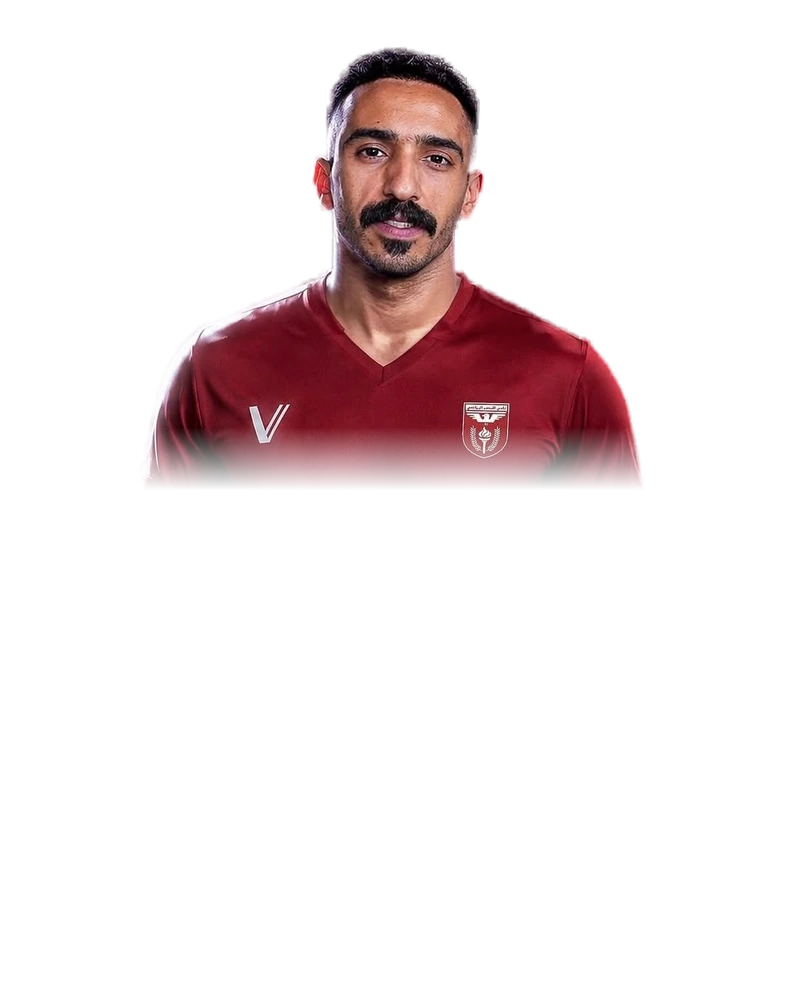
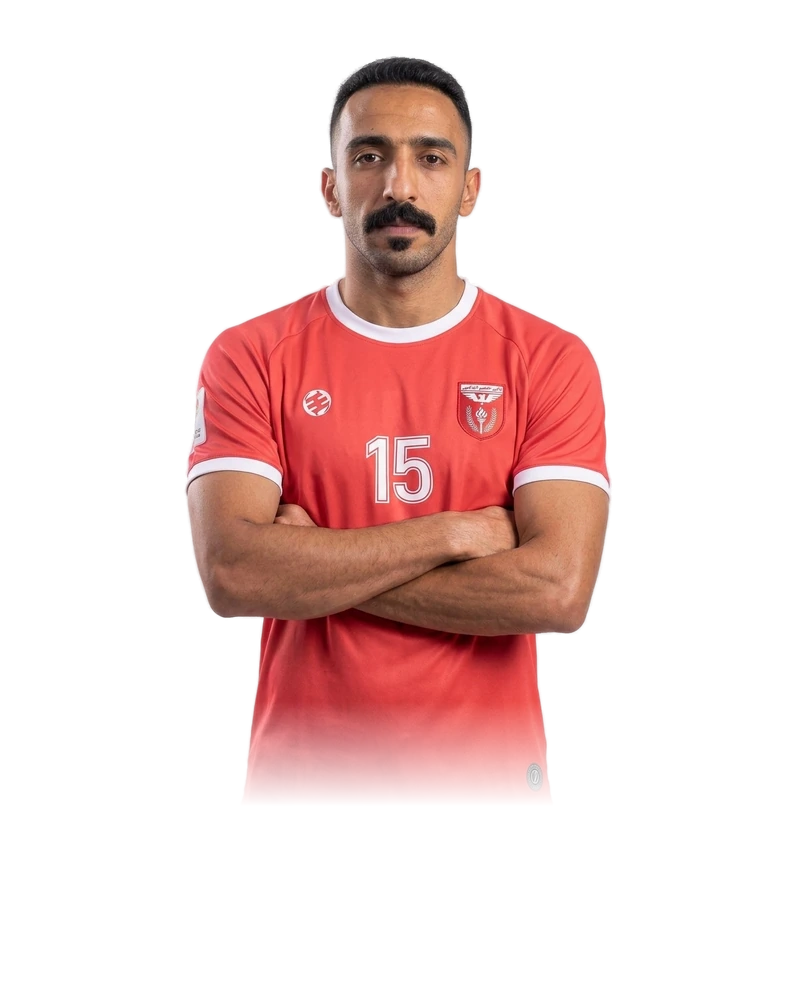
النصر: صورة خالد محمد 15 كاملة (بورتريه Gemini بوجهه الحقيقي وطقم النصر، متكتف مثل زملائه) بدل القصّة النصفية الصغيرة — صور ?v=18، fantasy 224، sw -114

Changed region(s): [[0.1875, 0.031, 0.8125, 0.806]]

diff --git a/fantasy/index.html b/fantasy/index.html
@@ -12,7 +12,7 @@
 <link rel="preconnect" href="https://fonts.googleapis.com">
 <link rel="preconnect" href="https://fonts.gstatic.com" crossorigin>
 <link href="https://fonts.googleapis.com/css2?family=Vazirmatn:wght@300;400;500;600;700;800&display=swap" rel="stylesheet">
-<link rel="stylesheet" href="css/style.css?v=223">
+<link rel="stylesheet" href="css/style.css?v=224">
 <script src="https://cdnjs.cloudflare.com/ajax/libs/firebase/10.12.2/firebase-app-compat.min.js"></script>
 <script src="https://cdnjs.cloudflare.com/ajax/libs/firebase/10.12.2/firebase-auth-compat.min.js"></script>
 <script src="https://cdnjs.cloudflare.com/ajax/libs/firebase/10.12.2/firebase-firestore-compat.min.js"></script>
@@ -20,13 +20,13 @@
 </head>
 <body>
   <div id="splash">
-    <div class="splash-card"><img class="splash-logo" src="assets/logo-light.png?v=223" alt="Kuwait Fantasy League"></div>
+    <div class="splash-card"><img class="splash-logo" src="assets/logo-light.png?v=224" alt="Kuwait Fantasy League"></div>
   </div>
 
   <header id="topbar" style="display:none">
     <div id="brand" onclick="APP.go('dashboard')">
-      <img class="brand-lockup lk-dark" src="assets/logo-dark.png?v=223" alt="Kuwait Fantasy League">
-      <img class="brand-lockup lk-light" src="assets/logo-light.png?v=223" alt="Kuwait Fantasy League">
+      <img class="brand-lockup lk-dark" src="assets/logo-dark.png?v=224" alt="Kuwait Fantasy League">
+      <img class="brand-lockup lk-light" src="assets/logo-light.png?v=224" alt="Kuwait Fantasy League">
     </div>
     <a id="toSite" href="/" title="العودة للموقع">
       <svg viewBox="0 0 24 24" width="16" height="16" fill="none" stroke="currentColor" stroke-width="2.2" stroke-linecap="round" stroke-linejoin="round" aria-hidden="true"><path d="M9 6l6 6-6 6"/></svg>
@@ -41,28 +41,28 @@
   <nav id="bottomnav"></nav>
   <div id="toasts"></div>
 
-  <script src="js/cloud.js?v=223"></script>
-  <script src="js/data.js?v=223"></script>
-  <script src="js/engine.js?v=223"></script>
-  <script src="js/ui.js?v=223"></script>
-  <script src="js/photos.js?v=223"></script>
-  <script src="js/kits.js?v=223"></script>
-  <script src="js/kits-number.js?v=223"></script>
-  <script src="js/moderation.js?v=223"></script>
-  <script src="js/views.js?v=223"></script>
-  <script src="js/picker.js?v=223"></script>
-  <script src="js/extras.js?v=223"></script>
-  <script src="js/push.js?v=223"></script>
-  <script src="js/adminauth.js?v=223"></script>
-  <script src="js/admin.js?v=223"></script>
-  <script src="js/guide.js?v=223"></script>
-  <script src="js/live-gw.js?v=223"></script>
-  <script src="js/points.js?v=223"></script>
-  <script src="js/mfsync.js?v=223"></script>
-  <script src="js/roster-sync.js?v=223"></script>
-  <script src="js/app.js?v=223"></script>
-  <script src="js/i18n.js?v=223"></script>
-  <script src="js/i18n-more.js?v=223"></script>
-  <script src="js/gate.js?v=223"></script>
+  <script src="js/cloud.js?v=224"></script>
+  <script src="js/data.js?v=224"></script>
+  <script src="js/engine.js?v=224"></script>
+  <script src="js/ui.js?v=224"></script>
+  <script src="js/photos.js?v=224"></script>
+  <script src="js/kits.js?v=224"></script>
+  <script src="js/kits-number.js?v=224"></script>
+  <script src="js/moderation.js?v=224"></script>
+  <script src="js/views.js?v=224"></script>
+  <script src="js/picker.js?v=224"></script>
+  <script src="js/extras.js?v=224"></script>
+  <script src="js/push.js?v=224"></script>
+  <script src="js/adminauth.js?v=224"></script>
+  <script src="js/admin.js?v=224"></script>
+  <script src="js/guide.js?v=224"></script>
+  <script src="js/live-gw.js?v=224"></script>
+  <script src="js/points.js?v=224"></script>
+  <script src="js/mfsync.js?v=224"></script>
+  <script src="js/roster-sync.js?v=224"></script>
+  <script src="js/app.js?v=224"></script>
+  <script src="js/i18n.js?v=224"></script>
+  <script src="js/i18n-more.js?v=224"></script>
+  <script src="js/gate.js?v=224"></script>
 </body>
 </html>

diff --git a/sw.js b/sw.js
@@ -9,7 +9,7 @@
 
    عند كل نشر: ارفع رقم VER فتُبنى ذاكرة جديدة وتُحذف القديمة.
    ========================================================= */
-const VER   = 'mf-2026-09-16-113';
+const VER   = 'mf-2026-09-16-114';
 const SHELL = 'shell-' + VER;
 const RUN   = 'run-'   + VER;
 

diff --git a/fantasy/js/photos.js b/fantasy/js/photos.js
@@ -4,7 +4,7 @@
 'use strict';
 
 /* رقم نسخة الصور: ارفعه عند إعادة توليد أي قصّة حتى لا يبقى المتصفح على النسخة القديمة */
-const PLAYER_PHOTOS_VER = '17';
+const PLAYER_PHOTOS_VER = '18';
 
 const PLAYER_PHOTOS = {
   // الصليبخات (17)
